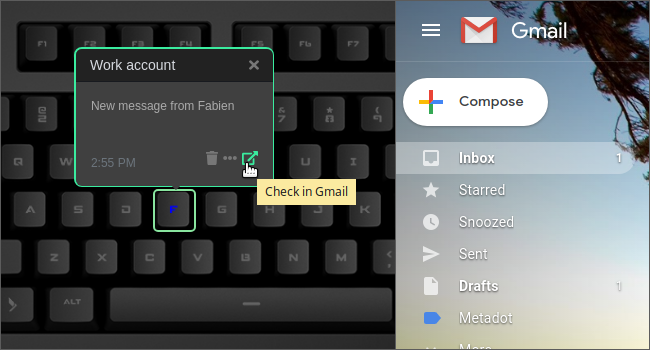
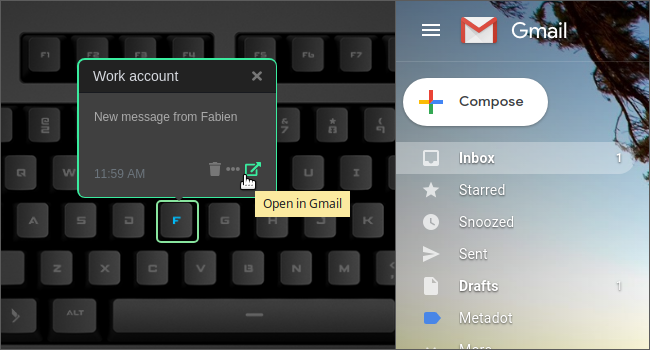
Details content before release.

Changed region(s): [[0.0, 0.0571, 0.6154, 1.0]]

diff --git a/index.js b/index.js
@@ -90,13 +90,13 @@ class GmailAlerts extends q.DesktopApp {
         return this.generateSignalMessage(json).then(message => {
           return new q.Signal({
             points: [
-              [new q.Point("#0000FF",q.Effects.BLINK)]
+              [new q.Point("#00BFFF", q.Effects.BLINK)]
             ],
             name: `${account}`,
             message: message,
             link: {
               url: 'https://mail.google.com',
-              label: 'Check in Gmail',
+              label: 'Open in Gmail',
             }
           });
         });

diff --git a/README.md b/README.md
@@ -4,9 +4,7 @@ Notifies of new unread Gmail messages on selected keys.
 
 [GitHub repository](https://github.com/daskeyboard/q-applet-gmail)
 
-## Example
-
-![Gmail on a Das Keybaord Q](assets/image.png "Q Gmail")
+![Gmail applet on a Das Keybaord Q](assets/image.png "Das Keyboard Gmail applet")
 
 ## Changelog
 

diff --git a/README_END_USER.md b/README_END_USER.md
@@ -2,4 +2,4 @@
 
 Notifies of new unread Gmail messages on selected keys.
 
-![Gmail on a Das Keybaord Q](assets/image.png "Q Gmail")
+![Gmail applet on a Das Keybaord Q](assets/image.png "Das Keyboard Gmail applet")

diff --git a/CHANGELOG.md b/CHANGELOG.md
@@ -8,3 +8,7 @@ First release
 
 New image added.
 README and Package.json updated.
+
+## Version 1.1.1 - January 17, 2019
+
+Description content and image updated.
